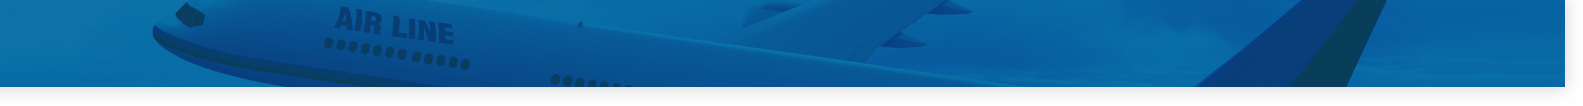
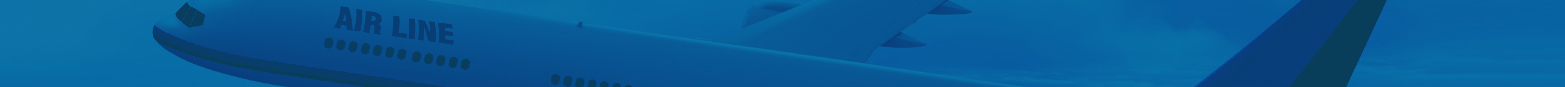
up

diff --git a/05travel/css/style.css b/05travel/css/style.css
@@ -4,11 +4,16 @@
 
 #header{
 	border-bottom: 5px solid #0e73a7;
-	background-image: url(../images/04비행기.jpg);
-	background-repeat:no-repeat;
-	background-position:top;
-	background-size:auto;
+	position: relative;
 }
+	.headerBg{
+		width: 100%;height: 87px;background: #0e73a7;
+		position: absolute;top: 0;
+		background-image: url(../images/04비행기.jpg);
+		background-repeat:no-repeat;
+		background-position:top;
+		background-size:auto;
+	}
 	.headerWrap{width: 980px;margin: 0 auto;}
 		.utilWrap{_background: #0e73a7;height: 87px;}
 		.utilWrap>.util{position: relative;}
@@ -63,10 +68,10 @@
 
 #content{
 	height: 1125px;padding-top: 55px;
-	background-image:  url(../images/dot01.gif),url(../images/01배경.jpg);
-	background-repeat: repeat, no-repeat;
+	background-image:  url(../images/01배경.jpg);
+	background-repeat: no-repeat;
 	background-position: center;
-	background-size: auto, cover;
+	background-size: cover;
 }
 	.conWrap{
 		width: 980px;_height: 1070px;margin: 0 auto;
@@ -338,40 +343,70 @@
 		.sub_content .barWrap>.bar2{
 			transform: translate(-50%, -50%) rotate(90deg);
 		}
-		.sub_content .bg01{
-			width: 100%;height: 100%;background: #00f;
-			position: relative;opacity:0.1;
-			transition: 0.3s;
-		}
-		.sub_content .bg02{
-			width: 100%;height: 100%;background: #000;
-			position: relative;opacity:0.1;
-			transition: 0.3s;
-		}
-		.sub_content .bg03{
-			width: 100%;height: 100%;background: #182536;
-			position: relative;opacity:0.1;
-			transition: 0.3s;
-		}
+
+		.sub_content .bg01,
+		.sub_content .bg02,
+		.sub_content .bg03,
 		.sub_content .bg04{
-			width: 100%;height: 100%;background: #0f0;
+			width: 100%;height: 100%;
 			position: relative;opacity:0.1;
 			transition: 0.3s;
 		}
+		.sub_content .bg01{background: #00f;}
+		.sub_content .bg02{background: #000;}
+		.sub_content .bg03{background: #182536;}
+		.sub_content .bg04{background: #4b9476;}
+
 		.photoWrap01:hover img{transform:translate(-50%, -50%) scale(1.2);}
 		.photoWrap01:hover .barWrap{transform:translate(-50%,-50%) rotate(180deg);}
 		.photoWrap01:hover .bg01,
 		.photoWrap01:hover .bg02,
 		.photoWrap01:hover .bg03,
-		.photoWrap01:hover .bg04{opacity:0.4;}
+		.photoWrap01:hover .bg04{opacity:0.5;}
+		
+		.photoWrap01 p{font-size:14px;}
+		.sub_content .bgTxt01{
+			position: absolute;bottom: 0;text-align: center;
+			padding: 20px;color:white;transition:0.3s;
+		}
+		.sub_content .bgTxt02{
+			position: absolute;top: 0;text-align: center;
+			padding: 20px;color:white;transition:0.3s;
+		}
+		.photoWrap01:hover .bgTxt01{bottom: 133px;}
+		.photoWrap01:hover .bgTxt02{top: 133px;}
+
+
+/*company*/
+#subPageCpn{position: relative;}
+#subPageCpn .subPageBg{
+	height:290px;
+	background-image: url(../images/subimg01.jpg);
+	background-repeat: no-repeat;
+	background-position: center;
+	background-size: cover;
+}
+#subPageCpn .companyPageWrap{
+	width: 980px;position: absolute;
+	top: 0;left: 50%;transform:translateX(-50%);
+}
+#subPageCpn .companyPageWrap .companyTxtWrap{
+	width: 385px;margin: 0 auto;
+	text-align: center;padding: 30px 0;color:white;
+}
+#subPageCpn .companyPageWrap h2{
+	font-size:4em;border-bottom: 5px solid #fff;
+}
+#subPageCpn .companyPageWrap p{font-size:16px;padding: 20px;}
+#subPageCpn .companyPageWrap img{}
+
 
 
 /*footer*/
 
 #footer
 	.ftWrap{
-		width: 980px;height: 115px;margin: 0 auto;background: #fff;
-		padding: 30px 0;
+		width: 980px;margin: 0 auto;padding: 30px 0;
 	}
 	.ftWrap>ul{}
 	.ftWrap>ul>li{float: left;margin-right: 30px;margin-bottom: 10px;}

diff --git a/05travel/company.html b/05travel/company.html
@@ -1,0 +1,84 @@
+<!DOCTYPE html>
+<html lang="ko">
+<head>
+	<meta http-equiv="X-UA-Compatible" content="IE=Edge">
+	<meta charset="UTF-8">
+	<title>COMPANY</title>
+	<link rel="stylesheet" href="css/reset.css">
+	<link rel="stylesheet" href="css/jquery.bxslider.css">
+	<link rel="stylesheet" href="css/style.css">
+	<script src="js/jquery-3.1.1.min.js"></script>
+	<script src="js/jquery.bxslider.js"></script>
+</head>
+<body>
+	<header id="header">
+		<div class="headerBg"></div>
+		<div class="headerWrap"> <!-- w980 -->
+			<div class="utilWrap">
+				<div class="util">
+					<!-- <img src="images/04비행기01.jpg" alt="" class="airPlane"> -->
+					<h1>TRAVEL</h1>
+					<div class="searchWrap">
+						<form action="#" method="get">
+							<label for="searchTxt" class="searchTitle">searchtitle</label>
+							<input type="text" id="searchTxt" name="search" placeholder="검색어를 입력하세요." class="searchInp">
+							<button type="submit" class="searchBtn">search</button>
+						</form>
+					</div>
+					<div class="numWrap">
+						<ul class="clearfix">
+							<li class="num">
+								<h2>+82 02 12345678</h2>
+							</li>
+							<li class="snslogo">
+								<img src="images/facebook.jpg" alt="">
+								<img src="images/twitter.jpg" alt="">
+								<img src="images/b-logo.jpg" alt="">
+								<img src="images/in-logo.jpg" alt="">
+							</li>
+						</ul>
+					</div>
+				</div>
+			</div>
+			<div class="navWrap">
+				<ul class="clearfix">
+					<li><a href="#">여행도시</a></li>
+					<li><a href="#">호텔예약</a></li>
+					<li><a href="#">렌트카</a></li>
+					<li><a href="#">여행TIP</a></li>
+					<li><a href="#">회사소개</a></li>
+					<li><a href="#">커뮤니티</a></li>
+				</ul>
+			</div>
+		</div>
+	</header>
+	
+	<div id="subPageCpn">
+		<div class="subPageBg"></div>
+		<div class="companyPageWrap">
+			<div class="companyTxtWrap">
+				<h2>COMPANY</h2>
+				<p>회사소개 하이미디어와 여행을 떠나세요</p>
+			</div>
+			<img src="images/subimg02.jpg" alt="">
+		</div>
+	</div>
+
+	<footer id="footer">
+		<div class="ftWrap">
+			<ul class="clearfix">
+				<li><a href="#">이용약관</a></li>
+				<li><a href="#">개인정보취급방침</a></li>
+				<li><a href="#">사이트맵</a></li>
+				<li><a href="#">고객센터</a></li>
+				<li><a href="#">광고 및 제휴문의</a></li>
+			</ul>
+			<address>
+				123-456 서울특별시 구로구 구로동 (주)하이미디어 사업자등록번호 : 123-45-678910 대표이사 : 홍길동 대표번호 : 02-1324-5678<br>
+				COPYRIGHTⓒ2014 HIMEDIA TOUR. ALL RIGHTS RESERVED.
+			</address>
+			
+		</div>
+	</footer>
+</body>
+</html>

diff --git a/05travel/index.html b/05travel/index.html
@@ -26,6 +26,7 @@
 </head>
 <body>
 	<header id="header">
+		<div class="headerBg"></div>
 		<div class="headerWrap"> <!-- w980 -->
 			<div class="utilWrap">
 				<div class="util">
@@ -349,6 +350,10 @@
 									<div class="bar2"></div>
 								</div>
 								<div class="bg01"></div>
+								<div class="bgTxt01">
+									<h3>여행정보</h3>
+									<p>다양한 나라의 명소와 맛집 등 상세한 정보를 볼 수 있습니다.</p>
+								</div>
 							</div>
 						</li>
 						<li>   <!-- li06 -->
@@ -359,6 +364,10 @@
 									<div class="bar2"></div>
 								</div>
 								<div class="bg02"></div>
+								<div class="bgTxt02">
+									<h3>맛집정보</h3>
+									<p>다양한 나라의 명소와 맛집 등 상세한 정보를 볼 수 있습니다.</p>
+								</div>
 							</div>
 						</li>
 						<li>   <!-- li07 -->
@@ -369,6 +378,10 @@
 									<div class="bar2"></div>
 								</div>
 								<div class="bg03"></div>
+								<div class="bgTxt02">
+									<h3>숙박정보</h3>
+									<p>다양한 나라의 명소와 맛집 등 상세한 정보를 볼 수 있습니다.</p>
+								</div>
 							</div>
 						</li>
 						<li>   <!-- li08 -->
@@ -379,6 +392,10 @@
 									<div class="bar2"></div>
 								</div>
 								<div class="bg04"></div>
+								<div class="bgTxt01">
+									<h3>여행자후기</h3>
+									<p>다양한 나라의 명소와 맛집 등 상세한 정보를 볼 수 있습니다.</p>
+								</div>
 							</div>
 						</li>
 					</ul>
